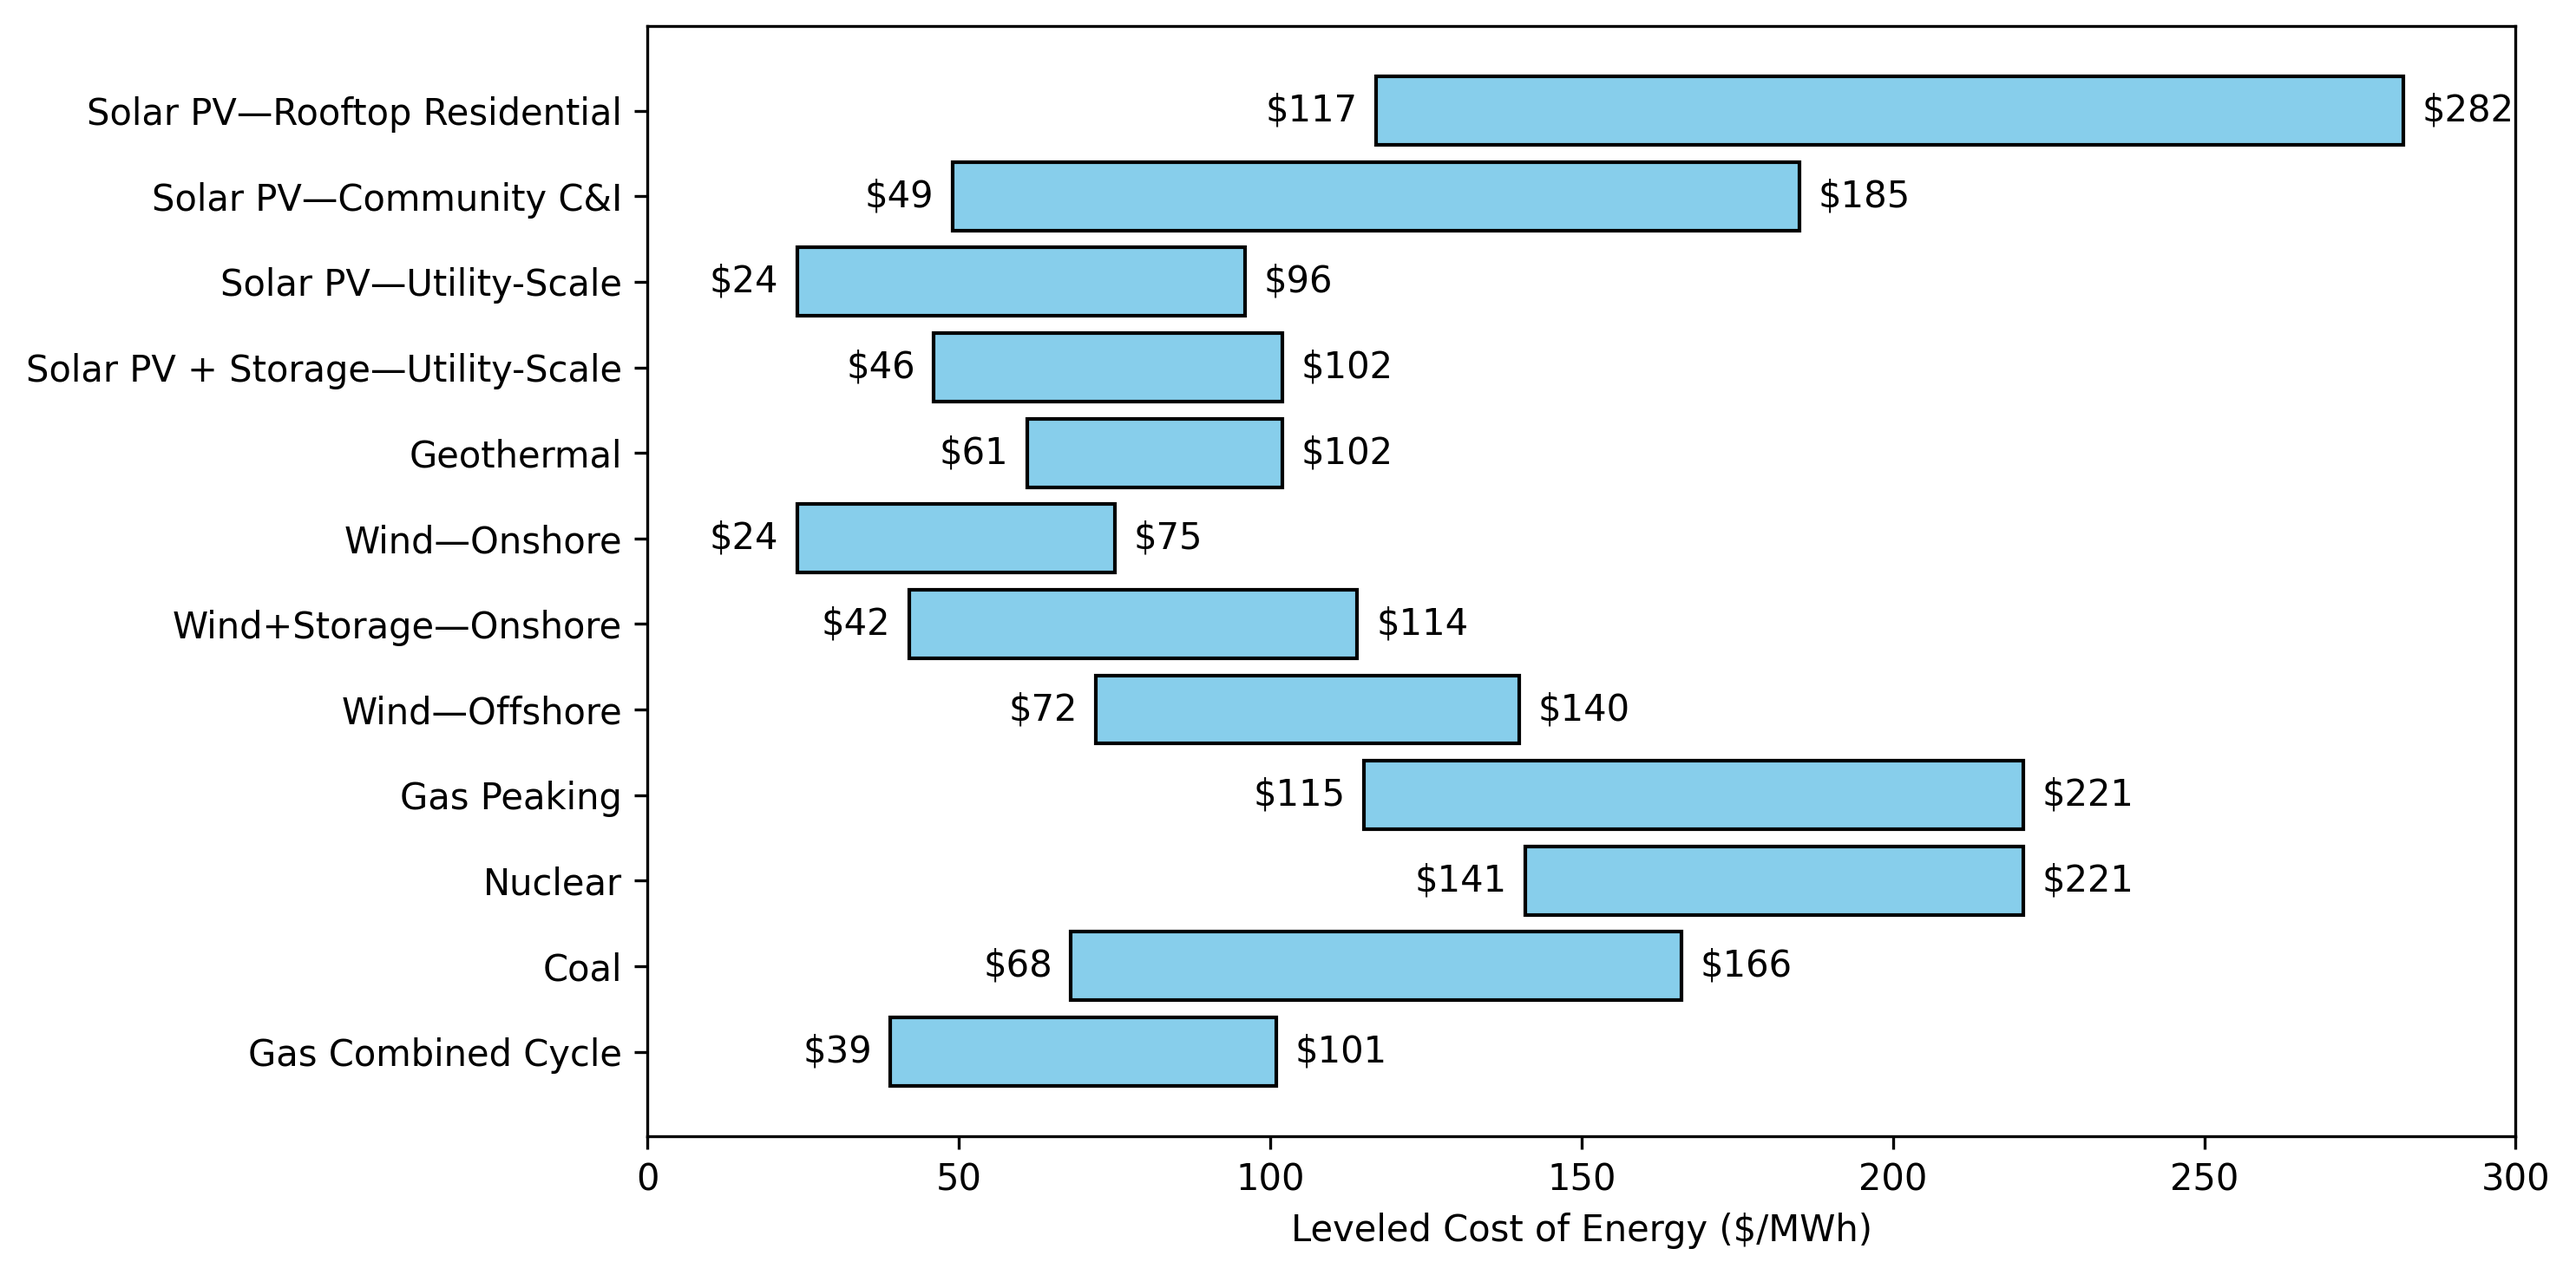
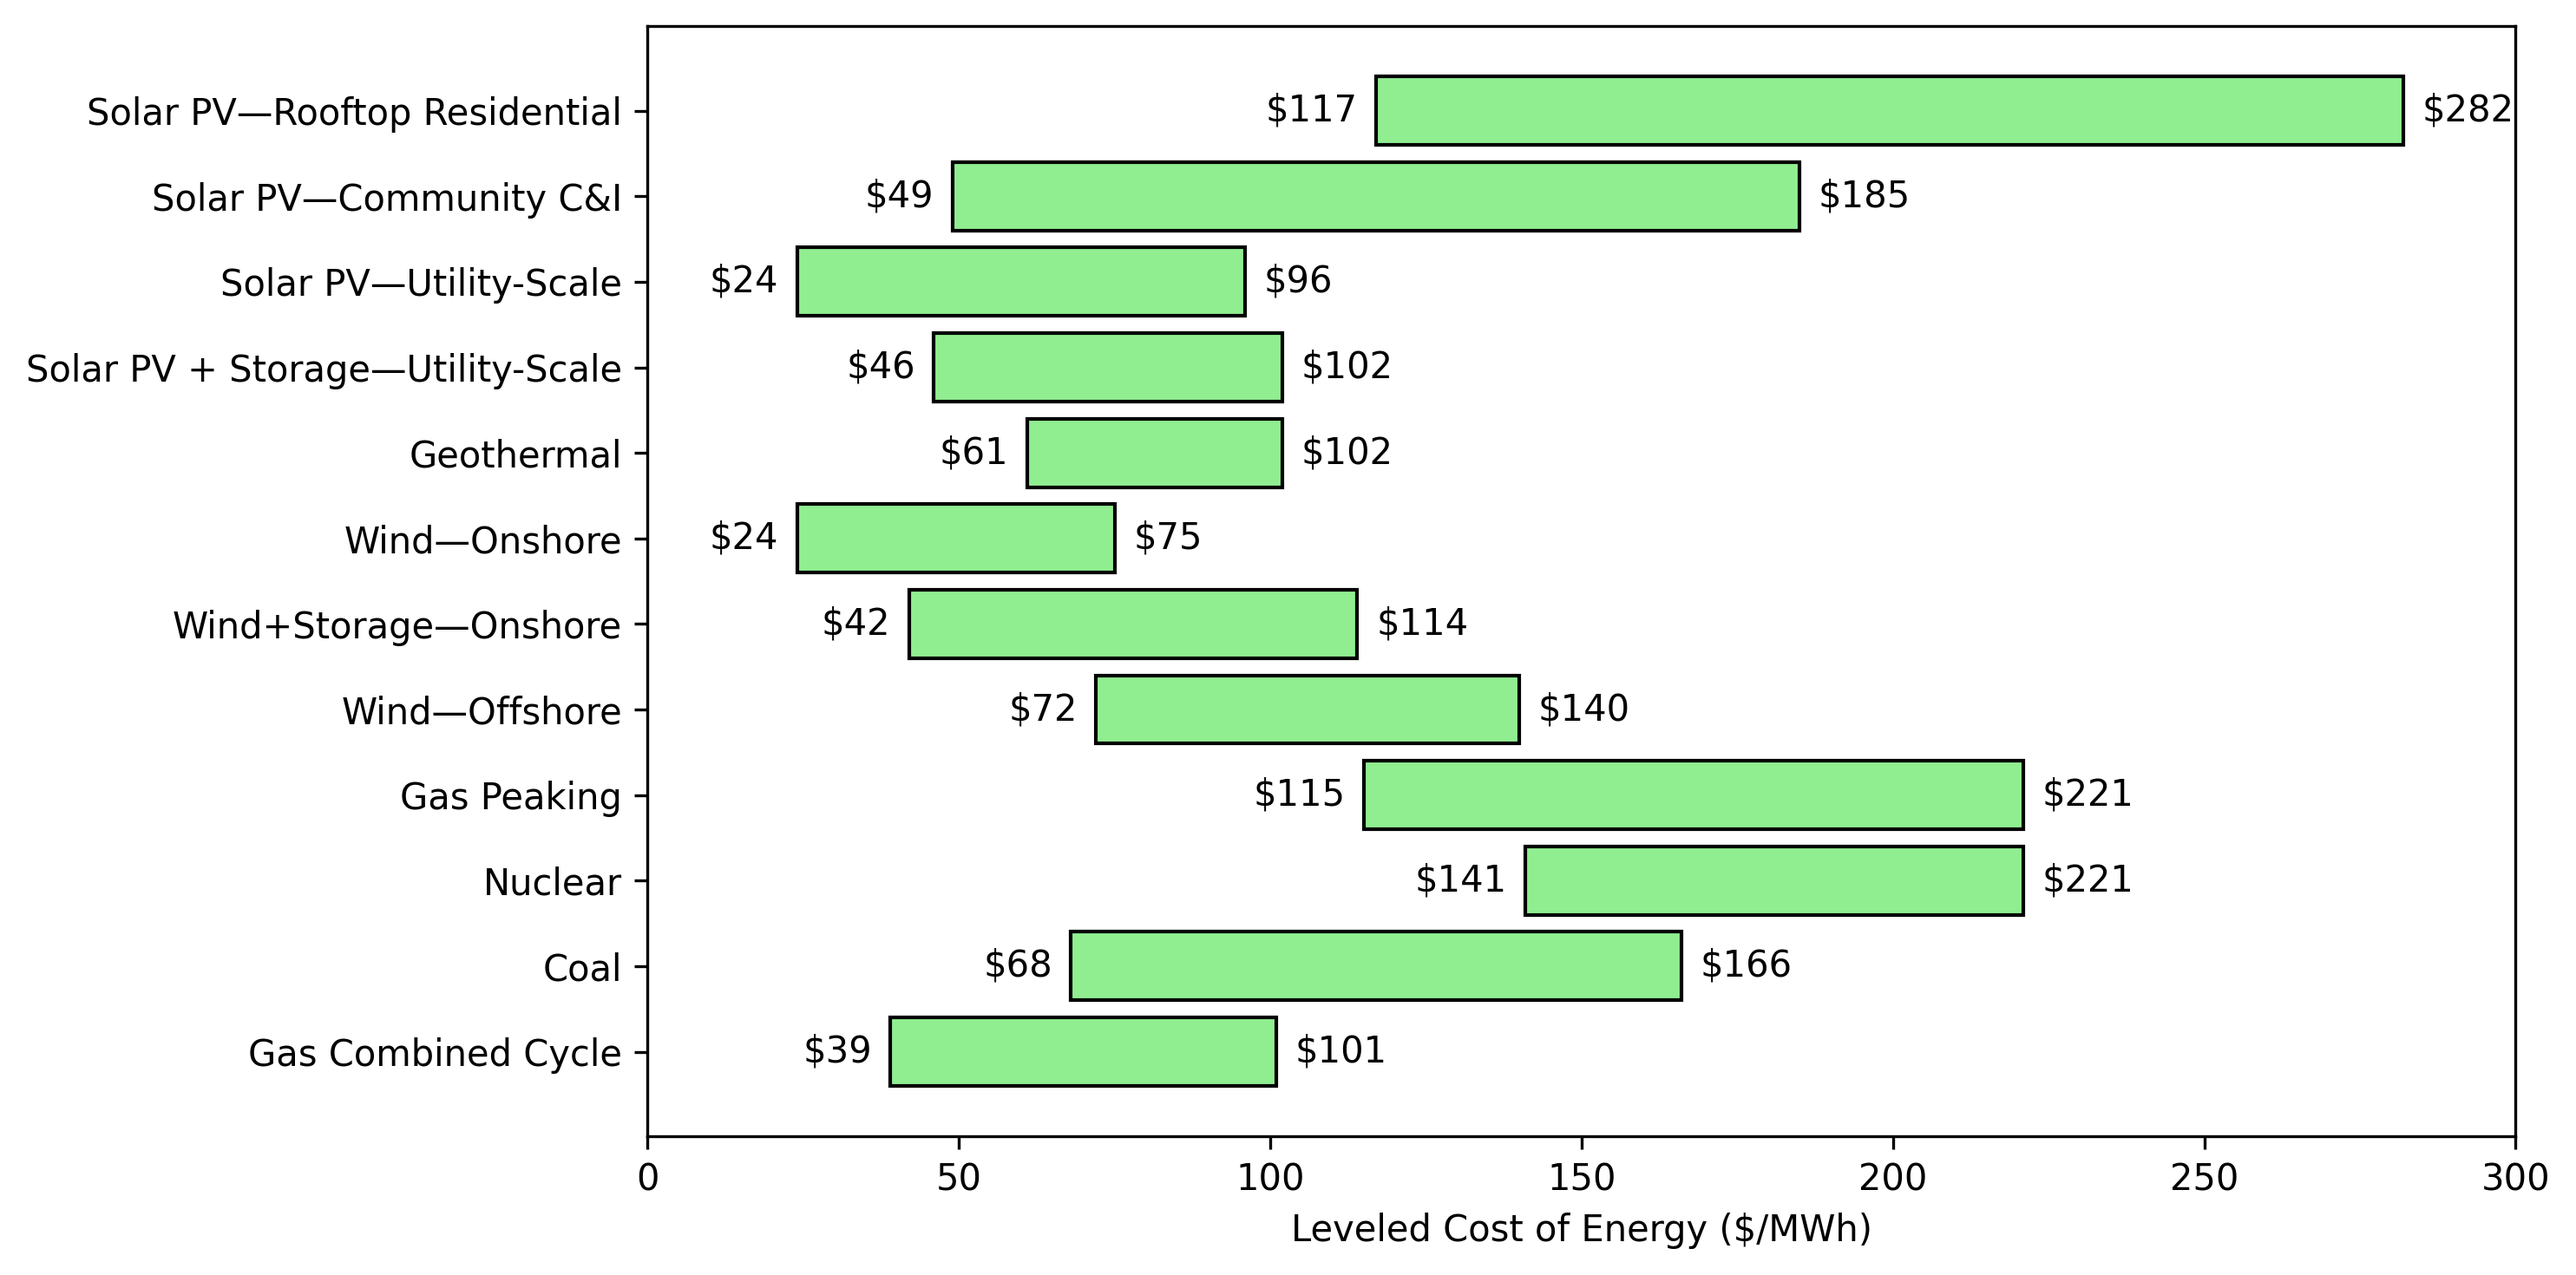
Initiate

Changed region(s): [[0.3099, 0.0612, 0.9296, 0.8571]]

diff --git a/Replication Package of IO Project/Code/Plot.py b/Replication Package of IO Project/Code/Plot.py
@@ -71,7 +71,7 @@ N = len(categories)
 fig, ax = plt.subplots(figsize=(10, 5))
 
 for i, (min_cost, max_cost) in enumerate(zip(min_costs, max_costs)):
-    ax.barh(categories[i], max_cost - min_cost, left=min_cost, color='skyblue', edgecolor='black')
+    ax.barh(categories[i], max_cost - min_cost, left=min_cost, color='lightgreen', edgecolor='black')
     ax.text(max_cost + 3, i, f'${max_cost}', va='center', ha='left', color='black')
     ax.text(min_cost - 3, i, f'${min_cost}', va='center', ha='right', color='black')
 
